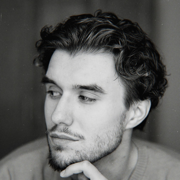
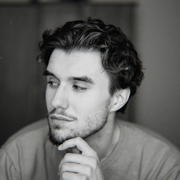
Portrait lockerer zuschneiden, Kreis vergrößern

diff --git a/index.html b/index.html
@@ -11,7 +11,7 @@
 <style>
   html,body{margin:0;height:100%;background:#111;color:#eee;font:16px/1.5 Georgia,serif}
   main{min-height:100%;display:grid;place-items:center;text-align:center;padding:16px;box-sizing:border-box}
-  img{width:160px;height:160px;border-radius:50%;filter:grayscale(1)}
+  img{width:240px;height:240px;border-radius:50%;filter:grayscale(1)}
   h1{font-weight:normal;font-size:1.6rem;margin:1rem 0 .25rem}
   a{color:#eee}
 </style>
